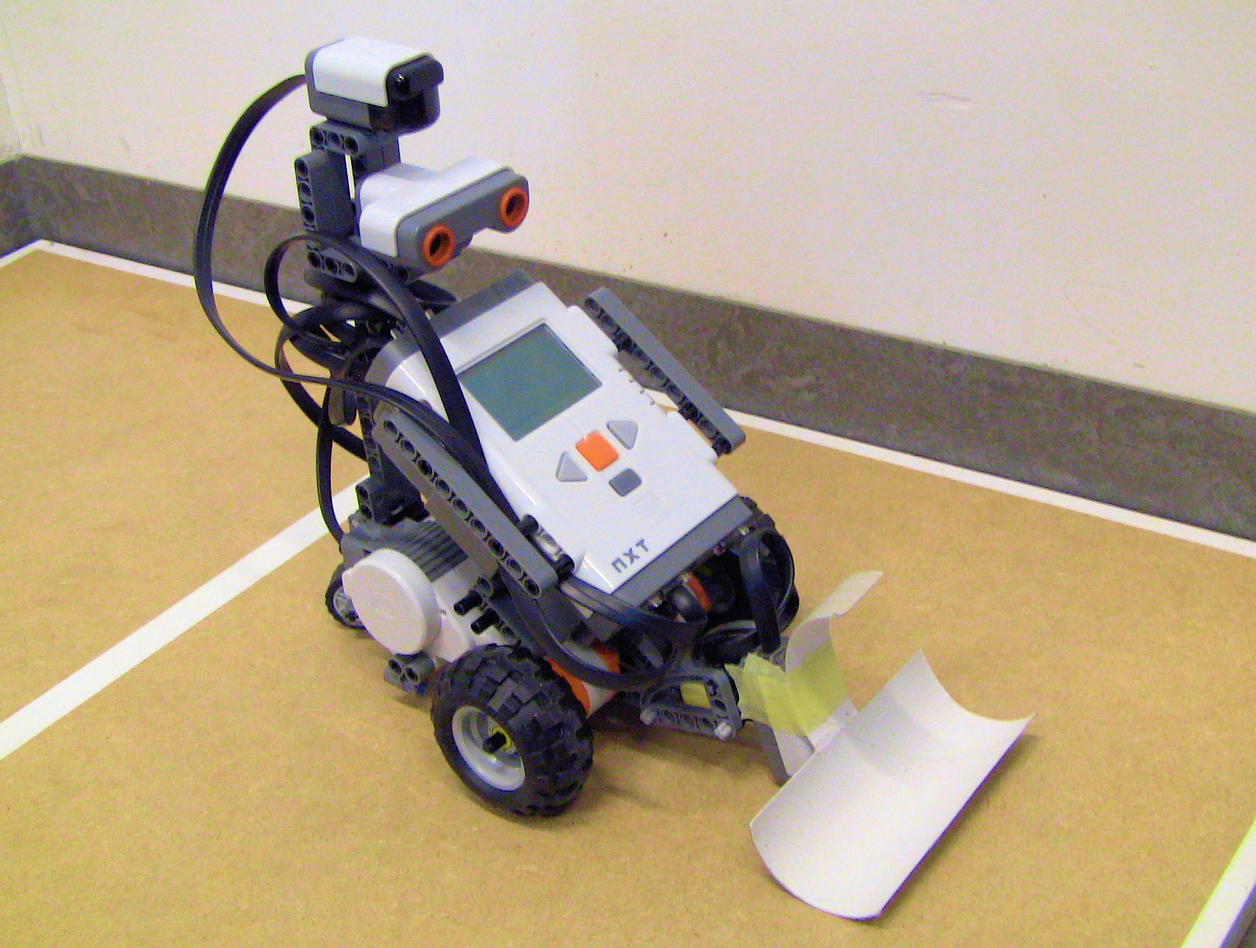
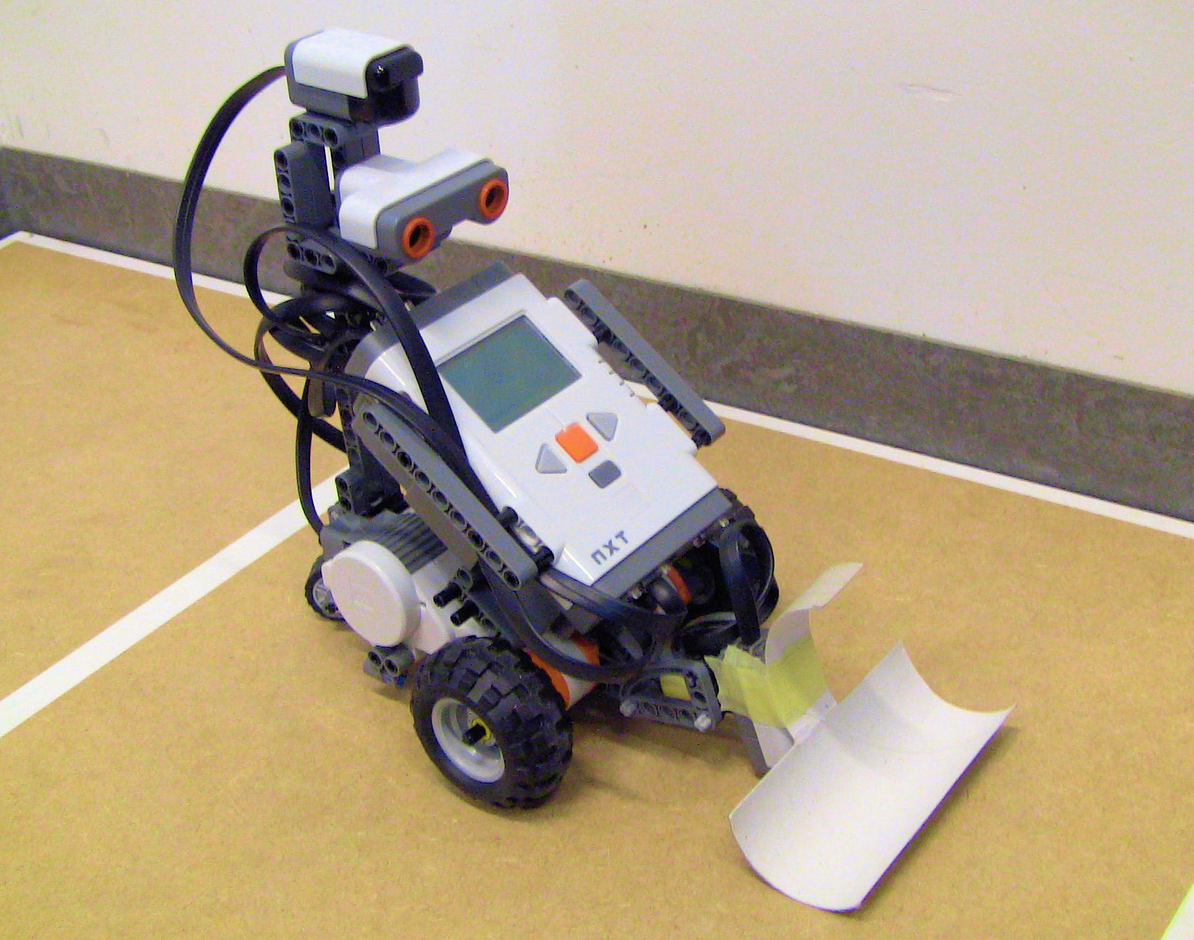
verslag nalezen tot voorwerp vinden

diff --git a/SilverSurferVerslag/Verslag demo 5/Verslag demo 5.tex b/SilverSurferVerslag/Verslag demo 5/Verslag demo 5.tex
@@ -32,7 +32,7 @@
 \label{ssec:abstract}
 Het P\&O-project heeft als doel vier autonome robots \textit{Team Treasure Trek} te laten spelen. Dit verslag beschrijft de invulling die team Zilver aan het project gaf.\\
 
-De robot is voorzien van een lichtsensor, een infraroodsensor en een ultrasone sensor. Verder is de robot voorzien van een schep waarmee hij het voorwerp kan oprapen.
+De robot is voorzien van een lichtsensor, een infraroodsensor en een ultrasone sensor. Verder heeft de robot van een schep vooraan waarmee hij het voorwerp kan oprapen.
 De robot kan een doolhof verkennen en hiervan een map bijhouden. Via RabbitMQ kunnen de robots en simulatoren met elkaar communiceren. Zo kunnen ze een map naar elkaar doorsturen om naar elkaar toe te rijden.\\
 
 Een computerprogramma simuleert de werking van robots. Deze simulator kan vier robots tegelijk simuleren of kan in hybride vorm gebruikt worden (waarbij bijvoorbeeld \'e\'en fysieke en drie virtuele robots gebruikt worden). De gesimuleerde robots gedragen zich volledig analoog aan de fysieke robot.
@@ -55,7 +55,7 @@ Een computerprogramma simuleert de werking van robots. Deze simulator kan vier r
 \section{Inleiding} % 4 ok
 \label{ssec:inl}
 In het kader van het vak `Probleemoplossen en Ontwerpen: computerwetenschappen' wordt gewerkt rond autonome intelligente robots. Verschillende teams bouwen en programmeren een robot met behulp van LEGO Mindstorms. Deze robot moet uiteindelijk samen met drie andere robots volledig autonoom \textit{Team Treasure Trek} kunnen spelen.
-De robots moeten hierbij in een onbekend doolhof op zoek naar een bepaald voorwerp (een wc-rol). Elke robot krijgt zijn eigen voorwerp toegewezen. Wanneer een robot zijn voorwerp gevonden heeft, komt hij te weten met welke robot hij moet samenwerken. Elk duo moet beide voorwerpen bij elkaar brengen. Het duo dat hier eerst in slaagt, wint.\\
+De robots moeten hierbij in een onbekend doolhof op zoek naar een bepaald voorwerp (een wc-rol). Elke robot krijgt een eigen voorwerp toegewezen. Wanneer een robot zijn voorwerp gevonden heeft, komt hij te weten met welke robot hij moet samenwerken. Elk duo moet beide voorwerpen bij elkaar brengen. Het duo dat hier eerst in slaagt, wint.\\
 
 Voor de tweede demonstratie wordt met \'e\'en fysieke en drie gesimuleerde robots gewerkt. Het is ook mogelijk met vier virtuele robots te werken. De doolhof bevat mogelijk een wip. De robots zijn in staat hun eigen voorwerp te vinden en op te rapen. Wanneer een robot weet wie zijn teamgenoot is, kan hij hiermee een punt afspreken om samen te komen.\\
 
@@ -64,41 +64,38 @@ Voor de tweede demonstratie wordt met \'e\'en fysieke en drie gesimuleerde robot
 \label{ssec:bouwrob}
 LEGO Mindstorms biedt een bouwpakket voor een robot aan. Een NXT-microcomputer laat toe de robot te programmeren. Met behulp van leJOS kan dit in Java.
 
-De robot moet in staat zijn een wc-rolletje, op te nemen. Verder moet de robot andere robots en de stand van de wip kunnen detecteren.
-
 \subsection{Fysieke bouw}
 \label{ssec:fysb}
-Een infraroodsensor werd gemonteerd bovenop de robot. Wanneer een infraroodbal onder de wip geplaatst wordt, kan de robot bepalen of de wip naar beneden staat. In dat geval wordt het infrarood licht immers geblokt. Later kan de infraroodsensor eventueel gebruikt worden om robots te detecteren.\\
+Een infraroodsensor werd gemonteerd bovenop de robot. Door een infraroodbal onder de wip te plaatsen, kan de robot bepalen of de wip naar beneden staat. In dat geval wordt het infrarood licht immers geblokt. Later kan de infraroodsensor eventueel gebruikt worden om robots te detecteren.\\
 
-Het voorwerp kan op verschillende manieren worden opgeraapt. Enkele opties werden getest: een schep met motor achteraan, een kartonnen schep vooraan en een plastieken schep met klittenband vooraan. Figuur \ref{fig:robotBouw} geeft deze opstellingen weer. Volgende bevindingen werden gemaakt:
+Het voorwerp kan op verschillende manieren worden opgeraapt. Enkele opties werden getest: een schep met motor achteraan, een kartonnen schep vooraan en een plastieken schep met klittenband vooraan. Figuur \ref{fig:robotBouw} geeft deze opstellingen weer. Het testen van de opstellingen, leidde tot volgende bevindingen:
 
 \begin{enumerate}
-\item De robot heft het voorwerp expliciet op met behulp van een extra motor. Deze opstelling maakte de robot te lang waardoor hij moeilijk kon draaien zonder tegen een muur te botsen. Er werd besloten de schep vooraan te plaatsen.
-\item Vooraan is niet genoeg plaats voor een extra motor, deze werd niet gebruikt. Een halve wc-rol leek een ideale vorm voor de schep. Na testen bleek dit echter niet altijd te werken.
-\item De robot neemt het voorwerp op met behulp van klittenband. De schep zorgt ervoor dat het voorwerp niet over de grond sleept. Zo zit het niet in de weg voor de wip. Dit is de huidige opstelling.
+\item De robot heft het voorwerp expliciet op met behulp van een extra motor. Deze opstelling maakt de robot te lang waardoor hij moeilijk kon draaien zonder tegen een muur te botsen. Er werd besloten de schep vooraan te plaatsen.
+\item Vooraan is niet genoeg plaats voor een extra motor, deze kon dus niet meer gebruikt worden. Een halve wc-rol leek een ideale vorm voor de schep. Na testen bleek dit echter niet altijd te werken.
+\item De robot neemt het voorwerp op met behulp van klittenband. De schep zorgt ervoor dat het voorwerp niet over de grond sleept. Dit is de huidige opstelling.
 \end{enumerate}
 
-De infrarood- en ultrasone sensor worden vast gemonteerd op de robot.
-De schep werd samen met de lichtsensor gemonteerd op een hefboomsysteem. Wanneer het hefboomsysteem de wip raakt, kantelt het omhoog. Zo kan de robot vlot de wip op.
+De infrarood- en ultrasone sensor staan vast gemonteerd op de robot. De schep werd samen met de lichtsensor gemonteerd op een hefboomsysteem. Wanneer het hefboomsysteem de wip raakt, kantelt het omhoog. Zo kan de robot vlot de wip op.
 
-De robot is ook voorzien van een dubbel paar wielen. Dit vermijdt dat hij gaat schuiven op de wip.
+De robot is ook voorzien van een dubbel paar wielen. Dit vermijdt dat hij van de wip glijdt.
 
 Figuur \ref{fig:robotDetail} geeft details van de schep, de wielen en de sensoren.
 
 % bouw robot
 \begin{figure}
 \centering
-	\begin{subfigure}[h]{0.33\textwidth}
+	\begin{subfigure}[h]{0.325\textwidth}
 	\centering
 		\includegraphics[width=\textwidth]{robotOud1}
 		\caption{opstelling 1}
-	\end{subfigure}%
-	\begin{subfigure}[h]{0.33\textwidth}
+	\end{subfigure}
+	\begin{subfigure}[h]{0.325\textwidth}
 		\centering
 		\includegraphics[width=\textwidth]{robotOud2}
 	\caption{opstelling 2}
 	\end{subfigure}
-	\begin{subfigure}[h]{0.33\textwidth}
+	\begin{subfigure}[h]{0.325\textwidth}
 		\centering
 		\includegraphics[width=\textwidth]{robotNieuw}
 	\caption{opstelling 3}
@@ -110,17 +107,17 @@ Figuur \ref{fig:robotDetail} geeft details van de schep, de wielen en de sensore
 % details robot
 \begin{figure}
 \centering
-	\begin{subfigure}[h]{0.33\textwidth}
+	\begin{subfigure}[h]{0.325\textwidth}
 	\centering
 		\includegraphics[width=\textwidth]{robotSchep}
 		\caption{schep}
-	\end{subfigure}%
-	\begin{subfigure}[h]{0.33\textwidth}
+	\end{subfigure}
+	\begin{subfigure}[h]{0.325\textwidth}
 		\centering
 		\includegraphics[width=\textwidth]{robotWielen}
 		\caption{wielen}
-	\end{subfigure}%
-	\begin{subfigure}[h]{0.33\textwidth}
+	\end{subfigure}
+	\begin{subfigure}[h]{0.325\textwidth}
 		\centering
 		\includegraphics[width=\textwidth]{robotSensoren}
 		\caption{infrarood- en ultrasone sensor}
@@ -153,61 +150,53 @@ Om het voorwerp te vinden moet de robot aanvankelijk het doolhof verkennen. In d
 \item[E] tegels waarvan de vier zijden al gekend zijn en waaraan drie muren grenzen, worden niet meer bezocht (`dead-ends' kunnen onmogelijk barcodes bevatten, dus dit is geen probleem)
 \end{description}
 
-Bij de start van het tweede semester werd besloten een extra optimalisatie (F) toe te voegen. Deze geeft prioriteit aan het vinden van het voorwerp. Een voorwerp kan zich enkel bevinden op een `dead-end', voorafgegaan door een `straight' met een barcode. Deze barcode identificeert het voorwerp. Wanneer de robot een mogelijke voorwerplocatie vindt, controleert hij zo snel mogelijk of er werkelijk een voorwerp ligt en om welk voorwerp het gaat. \\
+Bij de start van het tweede semester werd besloten een extra optimalisatie (F) toe te voegen. Deze geeft prioriteit aan tegels met voorwerpen. Een voorwerp kan zich enkel bevinden op een `dead-end', voorafgegaan door een `straight' met een barcode. De barcode identificeert het voorwerp. Wanneer de robot een mogelijke voorwerplocatie vindt, controleert hij zo snel mogelijk of er werkelijk een voorwerp ligt en om welk voorwerp het gaat. \\
 
 \begin{figure}[!hb]
-\caption{Veranderingen aan verkenalgoritme test doolhof}
 \centering
-\includegraphics[scale=0.5]{doolhof 3.png}
+	\includegraphics[scale=0.5]{doolhof3}
+	\caption{Een doolhof waarop optimalisatie F van het verkenalgoritme getest werd.}
 \label{doolhof3}
 \end{figure}
 
 \begin{table}[!hb]
 \begin{center}
-    \begin{tabular}{ | p{3cm}  | p{3cm}  | p{3cm}  | p{3cm}  | } \hline
-    \multicolumn{4}{|c|}{Robot beginplaats 00} \\ \hline
-   \multicolumn{2}{|c|}{Met deadend prioriteit} & \multicolumn{2}{|c|}{Zonder deadend prioriteit}\\  \hline
-     Vakje(xy) & Totaal afgelegde afstand vanaf beginplaats(cm) & Vakje(xy) & Totaal afgelegde afstand vanaf beginplaats(cm)\\ \hline
+    \begin{tabular}{ c | c || c | c }
+    \multicolumn{4}{c}{\textbf{Start op positie 00}} \\ 
+   \multicolumn{2}{c||}{Met deadend prioriteit} & \multicolumn{2}{|c}{Zonder deadend prioriteit}\\
+     positie (xy) & afgelegde weg (cm) & positie (xy) &  afgelegde weg (cm)\\ \hline\hline
     {\color{green}05} & {\color{green}720} & {\color{green}43} & {\color{green}880} \\ \hline
     {\color{green}43} & {\color{green}1520} & {\color{green}69} & {\color{green}2960} \\ \hline
     {\color{green}69} & {\color{green}4320} & {\color{green}64} & {\color{green}4520} \\ \hline
-    {\color{red}64} & {\color{red}6120} & {\color{red}05} & {\color{red}5920}\\ \hline
-    
+    {\color{red}64} & {\color{red}6120} & {\color{red}05} & {\color{red}5920}\\
     \end{tabular}
-    \caption{Verbeteringen aan het verkenalgoritme}
+    \caption{Testresultaten optimalisatie F, startpositie 00}
     \label{tab:resultVerken}
 \end{center}
 \end{table}
 
 \begin{table}[!hb]
 \begin{center}
-    \begin{tabular}{ | p{3cm}  | p{3cm}  | p{3cm}  | p{3cm}  | } \hline
-    \multicolumn{4}{|c|}{Robot beginplaats 99} \\ \hline
-   \multicolumn{2}{|c|}{Met deadend prioriteit} & \multicolumn{2}{|c|}{Zonder deadend prioriteit}\\  \hline
-     Vakje(xy) & Totaal afgelegde afstand vanaf beginplaats(cm) & Vakje(xy) & Totaal afgelegde afstand vanaf beginplaats(cm)\\ \hline
+    \begin{tabular}{c | c || c | c }
+    \multicolumn{4}{c}{\textbf{Start op positie 99}} \\
+   \multicolumn{2}{c||}{Met deadend prioriteit} & \multicolumn{2}{|c}{Zonder deadend prioriteit}\\
+     positie (xy) &  afgelegde weg (cm) & positie (xy) &  afgelegde weg (cm)\\ \hline\hline
     69 & 120 & 69 & 120 \\ \hline
     {\color{red}05} & {\color{red}2920} & {\color{red}05} & {\color{red}2600} \\ \hline
     {\color{red}43} & {\color{red}3720} & {\color{red}43} & {\color{red}3240} \\ \hline
-    {\color{red}64} & {\color{red}6240} & {\color{red}64} & {\color{red}6000}\\ \hline
-    
+    {\color{red}64} & {\color{red}6240} & {\color{red}64} & {\color{red}6000}\\
     \end{tabular}
-    \caption{Verbeteringen aan het verkenalgoritme}
+    \caption{Testresultaten optimalisatie F, startpositie 99}
     \label{tab:resultVerken}
 \end{center}
 \end{table}
 
 %TODO Testen...
 
-Een eerste reeks testen doet vermoeden dat het algoritme niet altijd effici"enter is met deze optimalisatie. Het is immers moeilijk het kortste pad naar de voorwerplocatie te bepalen omdat deze tegels vaak nog niet verkend zijn. Hierdoor maakt de robot veel omwegen. %(een duidelijk voorbeeld hiervan is doolhof 2 : ....) TODO
-Deze resultaten verplichten ons na te denken over een alternatieve manier om deze optimalisatie te bereiken. Daarom wordt deze optimalisatie voorlopig niet toegevoegd aan het algoritme. \\
-
-%
-% In sommige gevallen is het niet mogelijk rechtstreeks naar de locatie te gaan omdat het doolhof daar nog niet verkend is. In dat geval wordt verder verkend in de richting van de locatie. De `dead-end' zelf hoeft niet bezocht te worden wanneer uit de barcode blijkt dat het niet om het juiste voorwerp gaat, zodat optimalisatie E nog steeds geldt.\\
+Een eerste reeks testen doet vermoeden dat de optimalisatie het algoritme niet altijd effici"enter maakt. Het is immers moeilijk het kortste pad naar de voorwerplocatie te bepalen omdat deze tegels vaak nog niet verkend zijn. Het vinden van een pad gebeurt daarom via een heuristiek, waardoor de robot soms veel omwegen maakt. %(een duidelijk voorbeeld hiervan is doolhof 2 : ....) TODO
+Deze resultaten verplichten ons na te denken over een alternatieve manier om deze optimalisatie te implementeren. De optimalisatie werd voorlopig niet toegevoegd aan het algoritme. \\
 
 Nadat het voorwerp gevonden is, probeert de robot zijn teamgenoot te contacteren. Indien de teamgenoot zijn voorwerp nog niet heeft of wanneer de mappen van beide robots nog niet combineerbaar zijn, gaat de robot verder met het verkennen van het doolhof. \\
-
-%Als alternatief kan de robot zich naar het voorwerp van de teamgenoot begeven om daar op hem te wachten (niet te dichtbij om niet in de weg te staan). Deze extra optie wordt voorlopig nog niet ge\"implementeerd omdat nog niet duidelijk is in welke gevallen de strategie het best werkt.
-
 
 \subsection{Weg vinden naar andere robot}
 Hierbij dachten we aan het kortste-pad-algoritme. Dit zal wel nog aangepast moeten worden aan zowel draaien als vooruit rijden (draaien was nog niet in rekening gebracht).\\ Er moet ook nog rekening gehouden worden als de andere robot zou wegrijden. De robot mag hierdoor niet in een loop terechtkomen. \\
